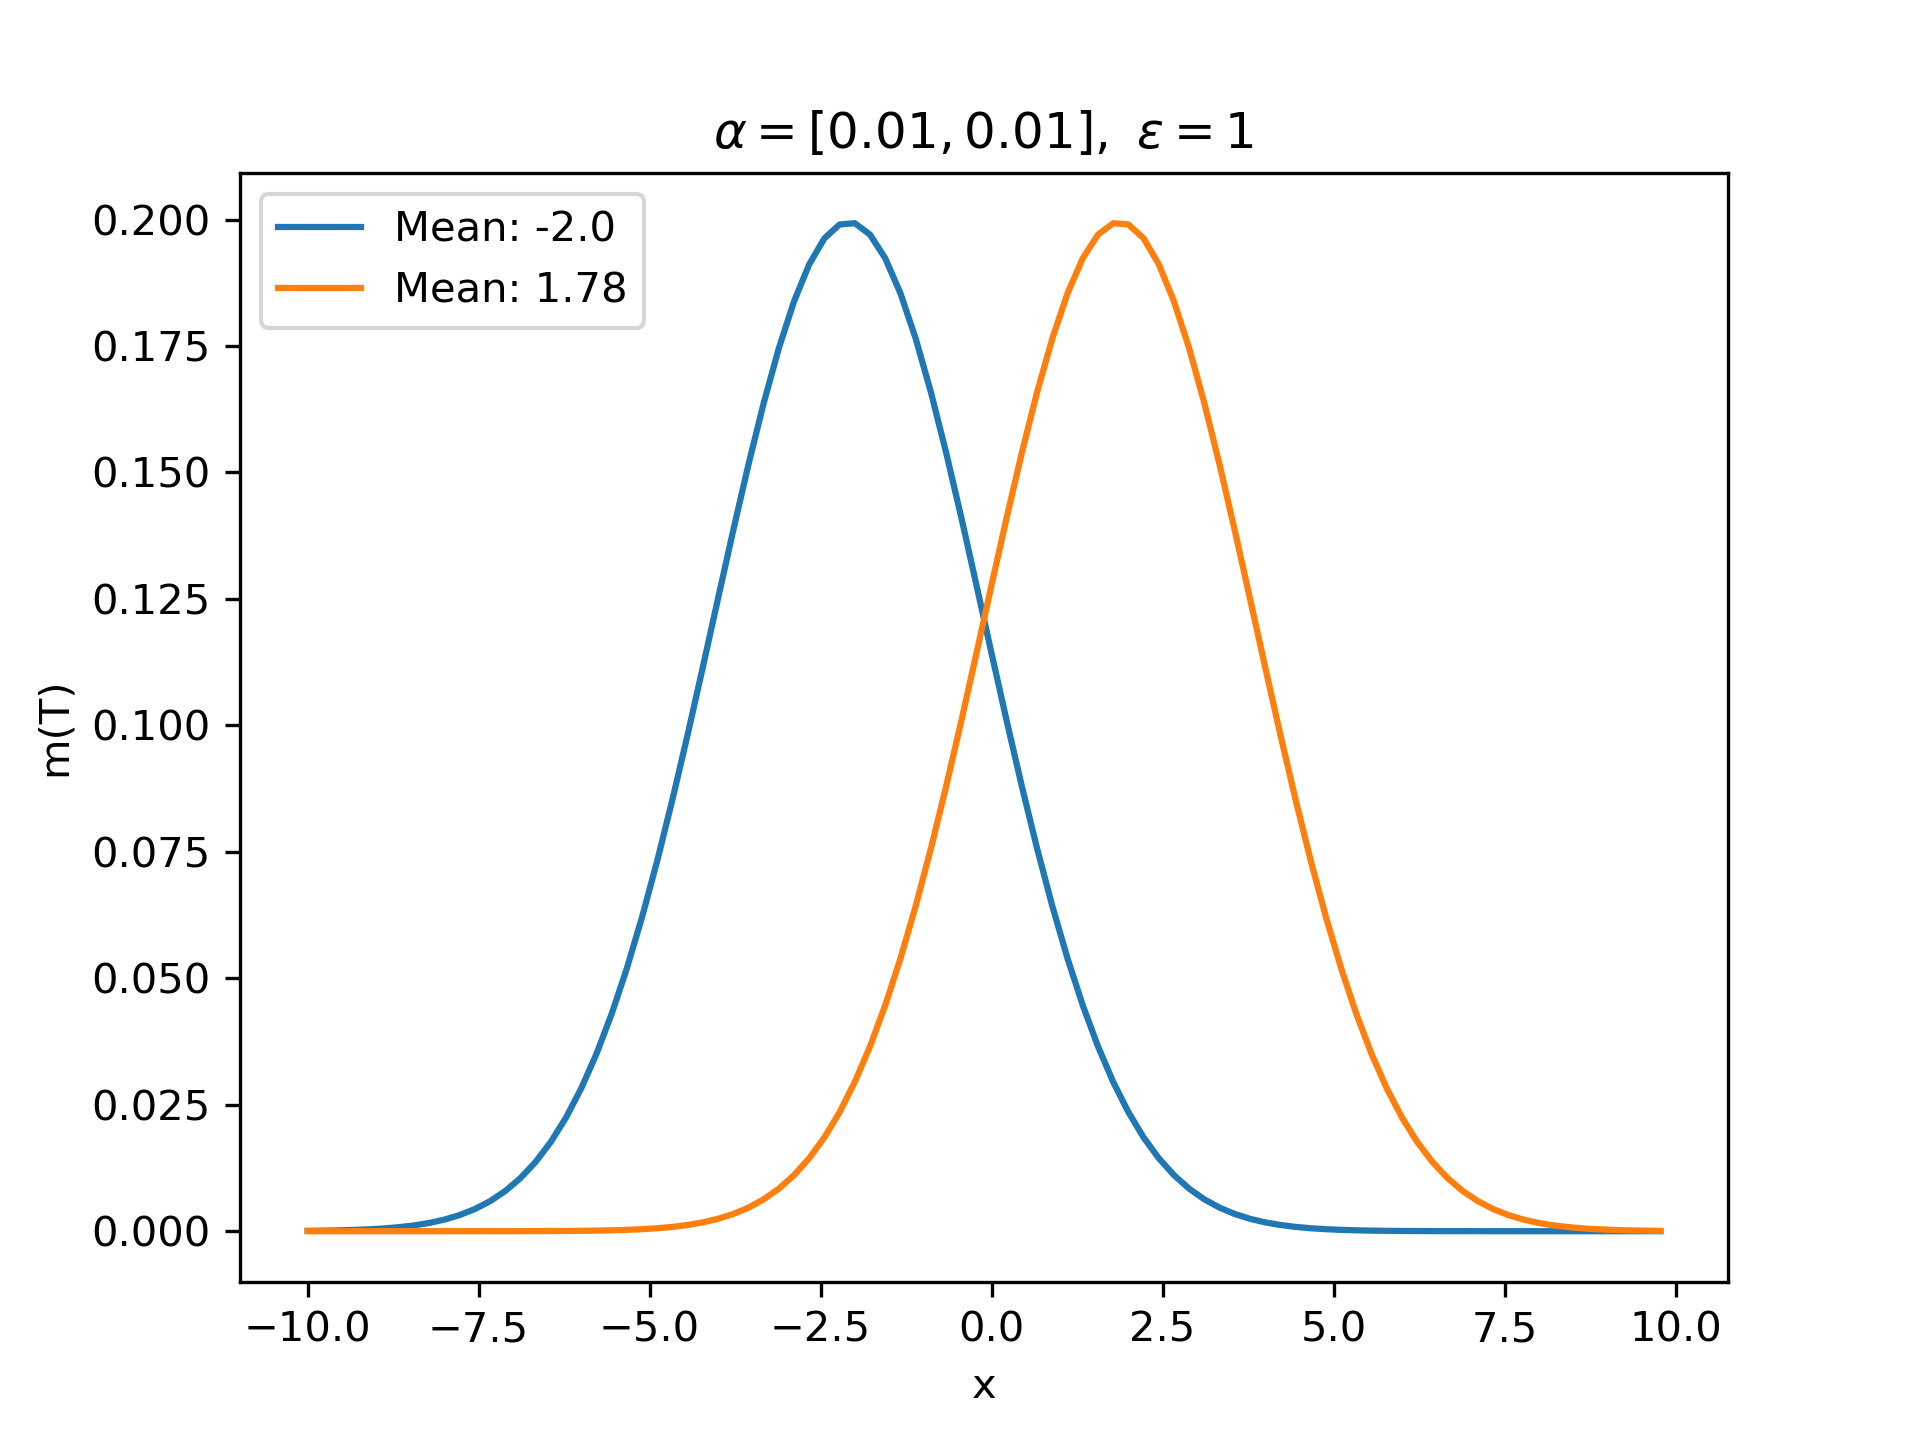
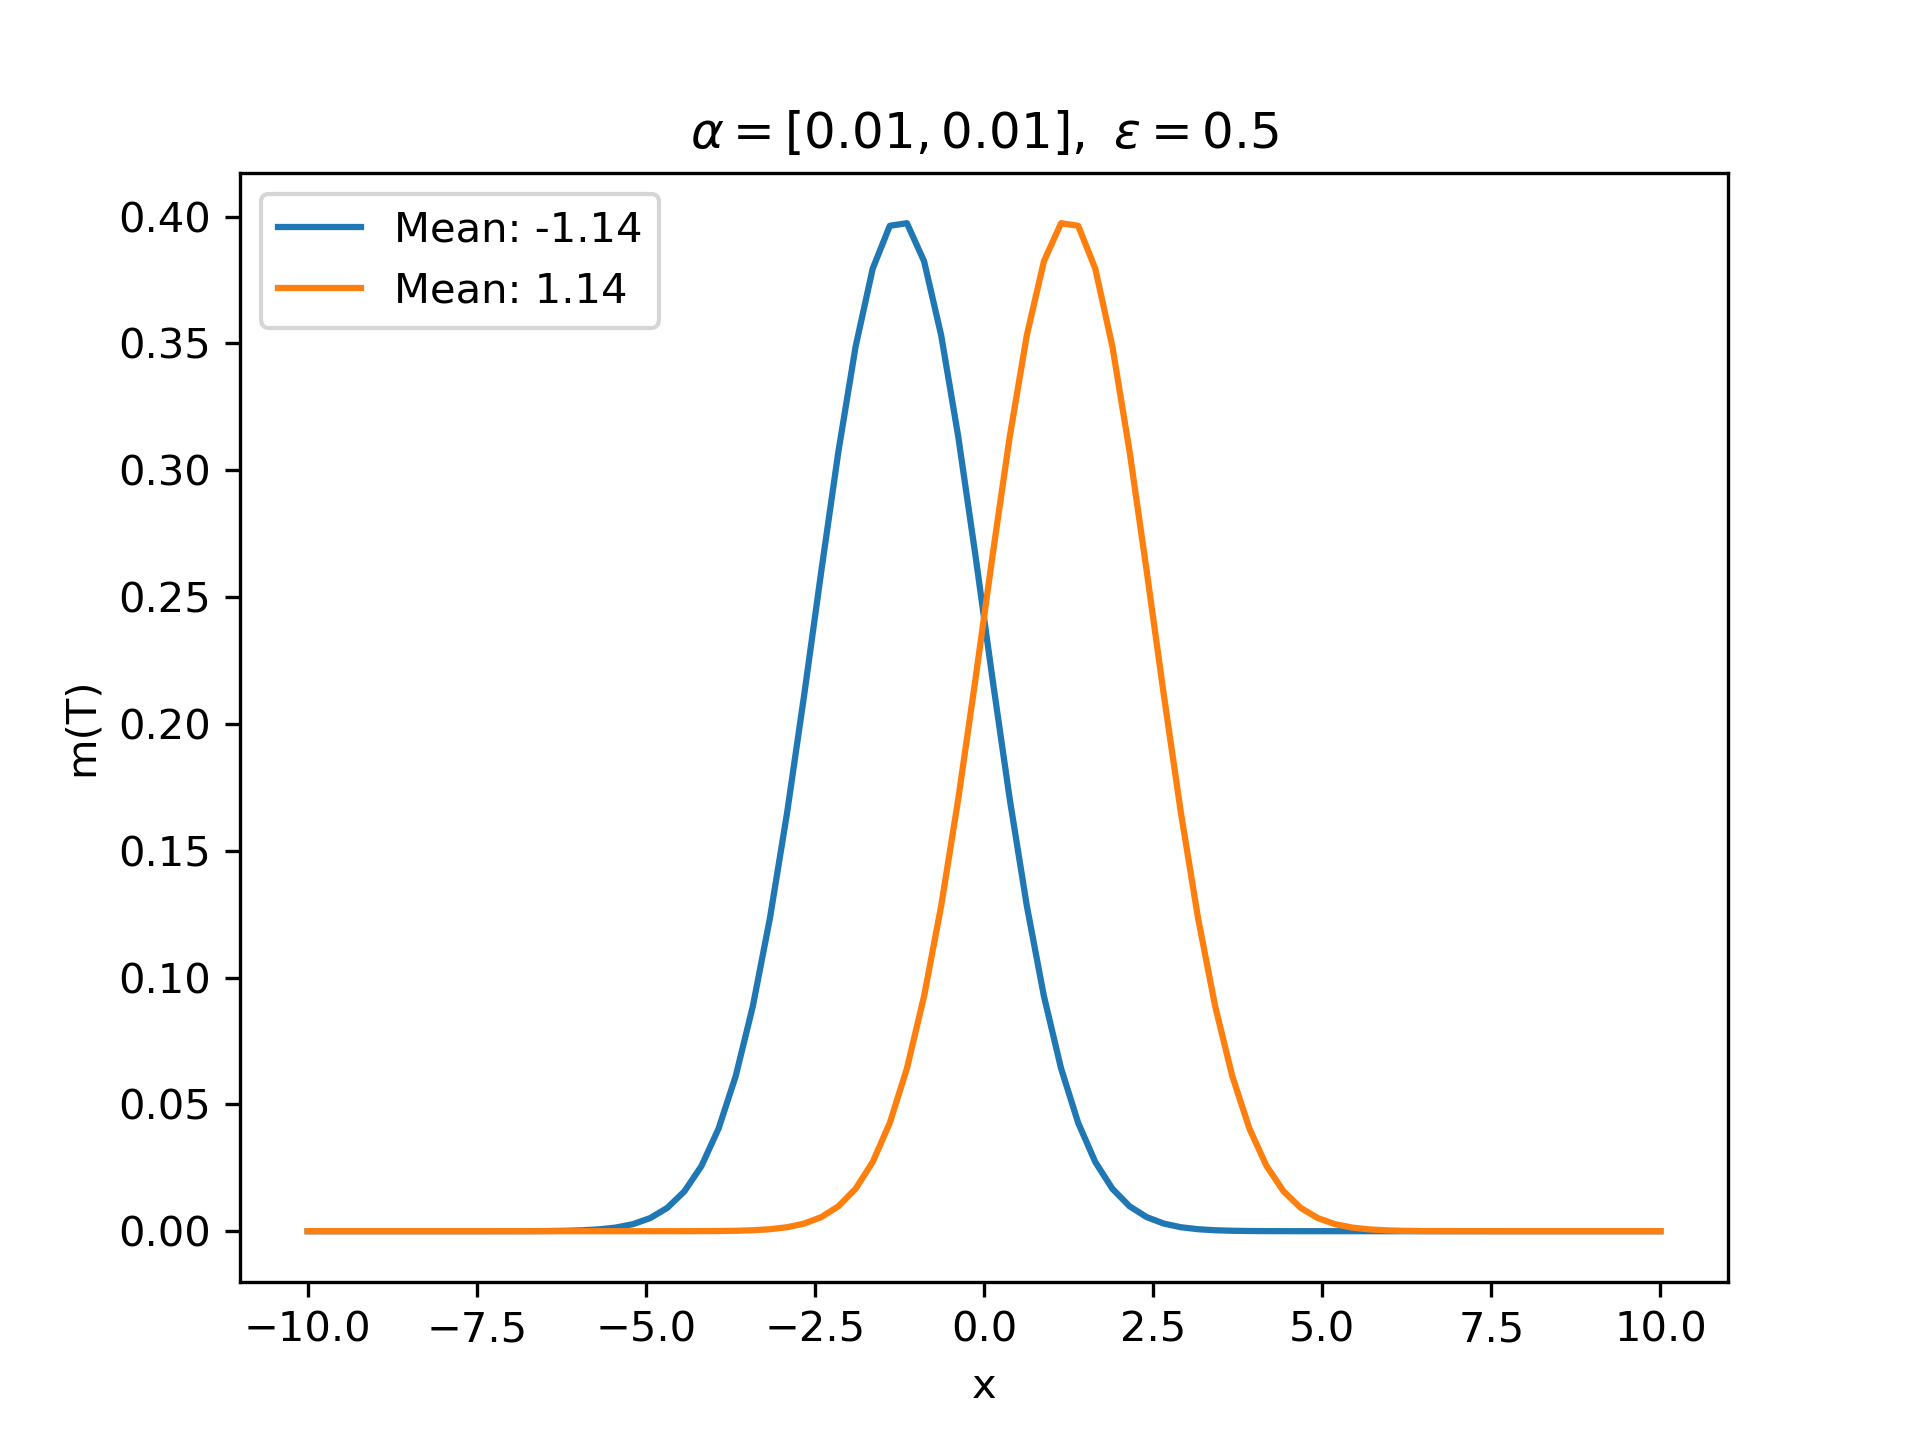
change

diff --git a/experiments/two_populaional.py b/experiments/two_populaional.py
@@ -5,8 +5,9 @@ from jax import jacfwd, vmap
 from jax.scipy.stats import norm, truncnorm
 import munch
 import os
-x_d1 = -3
-x_d2 = 3
+
+x_d1 = -2
+x_d2 = 2
 os.environ["JAX_TRACEBACK_FILTERING"]="off"
 
 class TwoPopulationMFG(object):
@@ -30,15 +31,19 @@ class TwoPopulationMFG(object):
     def mu0(self, x, population_index):
         a, b = -5, 5
         if population_index == 0:
-            midpoint = -2
-            sigma_mu = 2
+            midpoint = -1
+            sigma_mu = 1
+            mu = truncnorm.pdf(x, a=a, b=b, loc=midpoint, scale=sigma_mu)
 
-            return truncnorm.pdf(x, a =a, b=b, loc=midpoint, scale=sigma_mu)
+            # return mu / jnp.sum(mu * self.h)
+            return mu
         elif population_index == 1:
-            midpoint = 2
-            sigma_mu = 2
+            midpoint = 1
+            sigma_mu = 1
+            mu = truncnorm.pdf(x, a=a, b=b, loc=midpoint, scale=sigma_mu)
 
-            return truncnorm.pdf(x, a =a, b=b, loc=midpoint, scale=sigma_mu)
+            # return mu / jnp.sum(mu * self.h)
+            return mu
 
     def uT(self, x, population_index):
         if population_index == 0:
@@ -50,7 +55,7 @@ class TwoPopulationMFG(object):
     def local_kernel(self, x, y):
         dist = jnp.abs(x - y)
 
-        res = jnp.exp(1 - self.eps ** 2 / (1e-12 + self.eps ** 2 - dist ** 2))
+        res = jnp.exp(1 - self.eps ** 2 / (1e-10 + self.eps ** 2 - dist ** 2))
         return res
 
     def psi(self, Xtk, y, lambda_r, mu_k_t, mu_r_t, sigma_k):
@@ -81,17 +86,19 @@ class TwoPopulationMFG(object):
 
         M0 = self.mu0(self.x_grid, idx)  # Assuming mu0 returns an array of shape (N,)
         UT = vmap(self.uT, in_axes=(0, None))(self.x_grid, idx)
-        # U = U.at[self.Nt, :].set(UT)
+        U = U.at[self.Nt, :].set(UT)
         M = M.at[0, :].set(M0)
         return U, M
 
     def wasserstein_1(self, x, y):
+        x = jnp.maximum(x, 0)
+        y = jnp.maximum(y, 0)
         x = x / jnp.sum(x)
         y = y / jnp.sum(y)
 
         # Compute the cumulative distribution functions
-        cdf_x = jnp.cumsum(x)
-        cdf_y = jnp.cumsum(y)
+        cdf_x = jnp.cumsum(x) * self.h
+        cdf_y = jnp.cumsum(y) * self.h
 
         # Compute the Wasserstein-1 distance (L1 norm between the CDFs)
         w1_distance = jnp.sum(jnp.abs(cdf_x - cdf_y))
@@ -291,15 +298,15 @@ class TwoPopulationMFG(object):
 
 
 cfg = munch.munchify({
-    'T' : 1,
+    'T' : 2,
     'Nt': 20,
-    'xl': -10,
-    'xr': 10,
-    'N' : 90,
+    'xl': -8,
+    'xr': 8,
+    'N' : 80,
     'nu': 1,
     'alphas': [0.01, 0.01],
-    'sigmas': [1, 1],
-    'lambdas': [0.3, 0.7],
+    'sigmas': [0.5, 0.5],
+    'lambdas': [0.5, 0.5],
     'eps': 1,
     'hjb_epoch': 100,
     'hjb_lr': 1,
@@ -311,8 +318,9 @@ cfg = munch.munchify({
 
 solver = TwoPopulationMFG(T=cfg.T, Nt=cfg.Nt, xl=cfg.xl, xr=cfg.xr, N=cfg.N, nu=cfg.nu, alphas=cfg.alphas, sigmas=cfg.sigmas, lambdas=cfg.lambdas, eps=cfg.eps)
 
+
 TT = jnp.linspace(0, cfg.T, cfg.Nt + 1)
-XX = jnp.linspace(cfg.xl, cfg.xr, cfg.N, endpoint=False)
+XX = jnp.linspace(cfg.xl, cfg.xr, cfg.N)
 TT, XX = jnp.meshgrid(TT, XX)
 
 # U, M = solver.solve_mfg(cfg.lr, cfg.tol, cfg.epoch)
@@ -320,7 +328,7 @@ U1, M1, U2, M2 = solver.solve(cfg.tol, cfg.epoch, cfg.hjb_lr, cfg.hjb_epoch)
 
 # Assuming cfg, U1, U2, M1, M2, x_d1, and x_d2 are already defined
 TT = np.linspace(0, cfg.T, cfg.Nt + 1)
-XX = np.linspace(-10, 10, cfg.N, endpoint=False)
+XX = np.linspace(-10, 10, cfg.N)
 
 # Final value function for both populations
 plt.figure()

diff --git a/experiments/one_populational.py b/experiments/one_populational.py
@@ -51,7 +51,7 @@ class OnePopulationalMFG(object):
         self.N = N
         self.nu = nu
         self.alpha = alpha
-        self.X = jnp.linspace(xl, xr, N, endpoint=False)
+        self.X = jnp.linspace(xl, xr, N)
         self.h = (xr - xl) / N
         self.eps = eps
 
@@ -60,7 +60,7 @@ class OnePopulationalMFG(object):
 
         # midpoint = (self.xr + self.xl) / 2
         midpoint = 1.0
-        sigma_mu = 2  # Define your standard deviation
+        sigma_mu = 1  # Define your standard deviation
         return truncnorm.pdf(x, loc=midpoint, a=-5, b=5, scale=sigma_mu)
 
     def uT(self, x):
@@ -263,19 +263,19 @@ class OnePopulationalMFG(object):
         return U, M
 
 cfg = munch.munchify({
-    'T' : 1,
-    'Nt': 20,
-    'xl': -10,
-    'xr': 10,
-    'N' : 110,
-    'nu': 1,
+    'T' : 2,
+    'Nt': 25,
+    'xl': -7,
+    'xr': 7,
+    'N' : 140,
+    'nu': 0.5,
     'alpha': 0.01,
-    'eps': 1,
+    'eps': 0.2,
     'hjb_epoch': 100,
     'hjb_lr': 1,
     'epoch': 100,
     'lr': 1,
-    'tol' : 10 ** (-4),
+    'tol' : 10 ** (-6),
 })
 
 dt = cfg.T / cfg.Nt
@@ -284,14 +284,14 @@ if  not (2* cfg.nu * dt)<= dx**2:
     solver = OnePopulationalMFG(cfg.T, cfg.Nt, cfg.xl, cfg.xr, cfg.N, cfg.nu, cfg.alpha, cfg.eps)
 
     TT = jnp.linspace(0, cfg.T, cfg.Nt + 1)
-    XX = jnp.linspace(cfg.xl, cfg.xr, cfg.N, endpoint=False)
+    XX = jnp.linspace(cfg.xl, cfg.xr, cfg.N)
     TT, XX = jnp.meshgrid(TT, XX)
 
     U, M = solver.solve(cfg.tol, cfg.epoch, cfg.hjb_lr, cfg.hjb_epoch)
+    final_mean = round(XX[np.argmax(M[-1, :]),0].item(), 2)
 
     TT = jnp.linspace(0, cfg.T, cfg.Nt + 1)
-    XX = jnp.linspace(-10, 10, cfg.N, endpoint=False)
-    # TT, XX = jnp.meshgrid(TT, XX_l)
+    XX = jnp.linspace(-10, 10, cfg.N)
 
     # Plot for U[-1, :]
     fig = plt.figure()
@@ -303,17 +303,14 @@ if  not (2* cfg.nu * dt)<= dx**2:
     # Plot for M[-1, :] with a vertical line at x_d
     fig = plt.figure()
     plt.plot(XX, M[0, :], label=r"Initial mean: 1.0")
-    plt.plot(XX, M[-1, :], label=f"Final mean: {str(round(XX[np.argmax(M[-1, :])], 2))}")
-
-    # param_legend = [Line2D([0], [0], color='none', label=r"$\alpha=\frac{1}{2}, \varepsilon=1$")]
-    plt.axvline(x=(XX[np.argmax(M[-1, :])]), color='r', linestyle='--',)
+    plt.plot(XX, M[-1, :], label=f"Final mean: {final_mean}")
+    # plt.axvline(x=x_d, color='r', linestyle='--',)
 
     plt.xlabel(r"$x$")
     plt.ylabel(r"$m(T)$")
     plt.title(r"$\alpha=" +f"{cfg.alpha}" +r",\ \varepsilon=" +f"{cfg.eps}$")
     plt.savefig("one_populational.png", dpi=300)
     plt.legend()
-    # plt.legend(handles=param_legend, loc='upper left')
     plt.show()
 
 # # 3D surface plot for U
